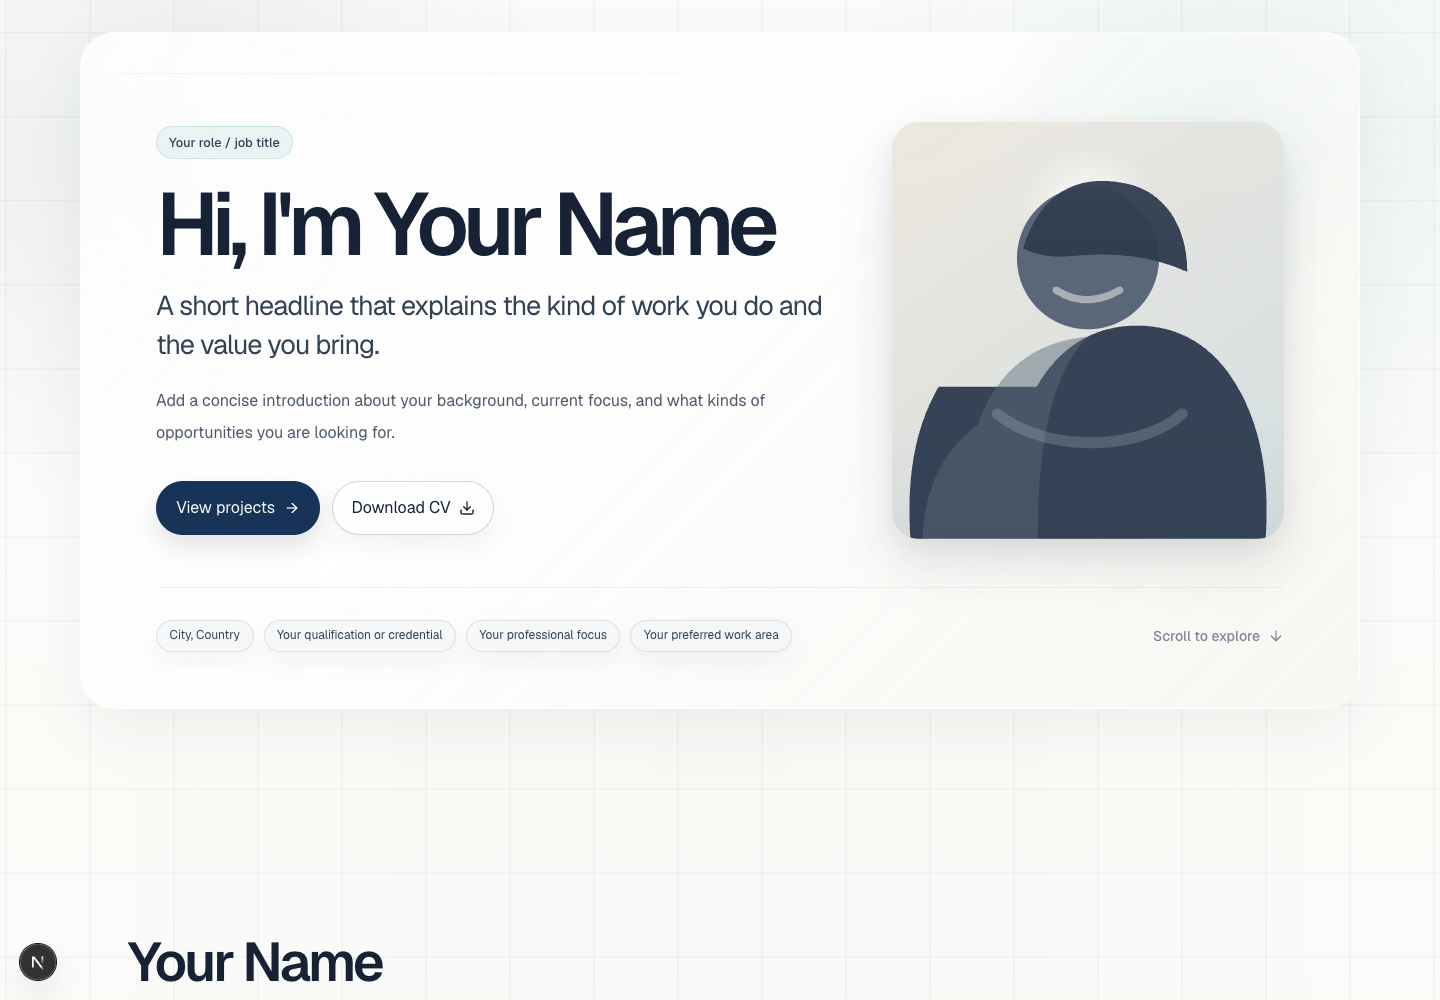
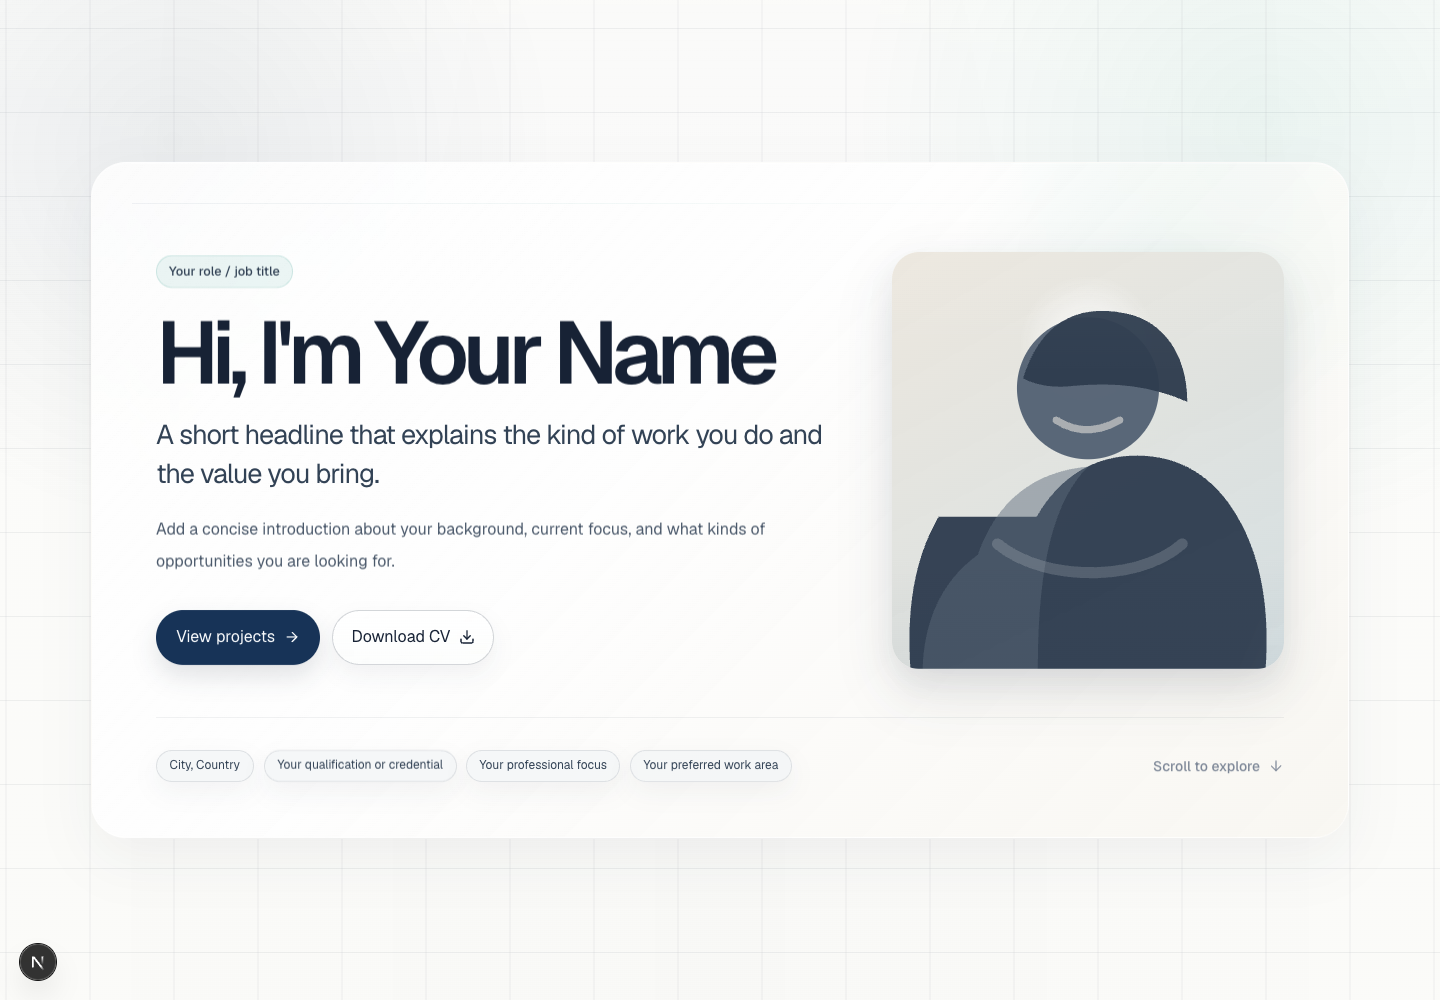
fix: center static hero stage

diff --git a/src/components/portfolio/hero-resume-transition.tsx b/src/components/portfolio/hero-resume-transition.tsx
@@ -14,12 +14,14 @@ export function HeroResumeTransition({
     <section
       id="portfolio-transition"
       aria-label="Resume hero"
-      className="relative z-10 px-4 pb-8 pt-4 sm:px-6 lg:px-8 xl:px-12 xl:pb-12 xl:pt-8"
+      className="relative z-10 flex min-h-[100svh] items-center px-4 py-8 sm:px-6 sm:py-10 lg:px-8 lg:py-12 xl:px-12"
     >
       <div className="mx-auto max-w-7xl">
         <PortfolioHeroStageCard
+          cardId="hero"
           cvDownload={cvDownload}
           profile={profile}
+          showEntranceAnimation
           variant="hero"
         />
       </div>